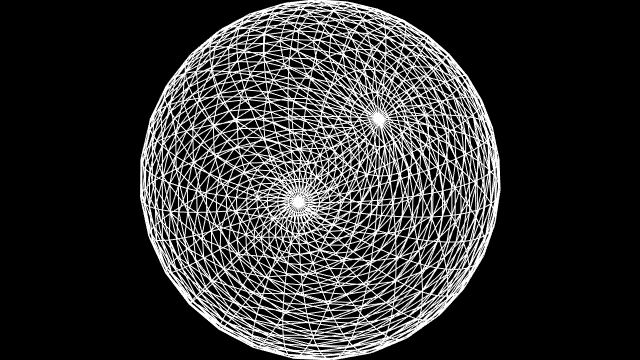
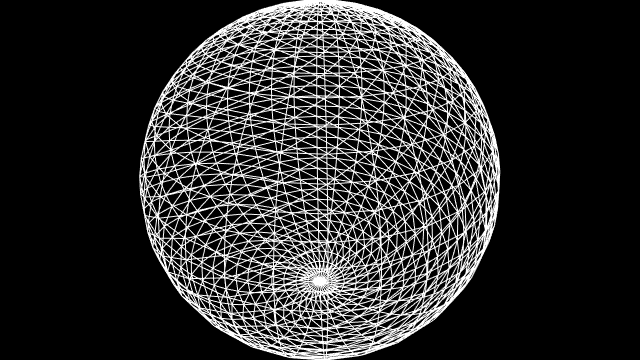
merg

diff --git a/src/ops/base/Ops.Gl.Meshes.SimpleWireframe/Ops.Gl.Meshes.SimpleWireframe.js b/src/ops/base/Ops.Gl.Meshes.SimpleWireframe/Ops.Gl.Meshes.SimpleWireframe.js
@@ -25,33 +25,51 @@ inGeom.onChange=function()
     }
 
     verts.length=0;
+    var i=0;
 
-    for(var i=0;i<geom.verticesIndices.length;i+=3)
+    if(geom.isIndexed())
     {
-        var index=geom.verticesIndices[i+0];
-        var index1=geom.verticesIndices[i+1];
-        var index2=geom.verticesIndices[i+2];
+        for(i=0;i<geom.verticesIndices.length;i+=3)
+        {
+            var index=geom.verticesIndices[i+0];
+            var index1=geom.verticesIndices[i+1];
+            var index2=geom.verticesIndices[i+2];
 
-        verts.push(geom.vertices[index*3+0],geom.vertices[index*3+1],geom.vertices[index*3+2]);
-        verts.push(geom.vertices[index1*3+0],geom.vertices[index1*3+1],geom.vertices[index1*3+2]);
-        verts.push(geom.vertices[index1*3+0],geom.vertices[index1*3+1],geom.vertices[index1*3+2]);
-        verts.push(geom.vertices[index2*3+0],geom.vertices[index2*3+1],geom.vertices[index2*3+2]);
-        verts.push(geom.vertices[index2*3+0],geom.vertices[index2*3+1],geom.vertices[index2*3+2]);
-        verts.push(geom.vertices[index*3+0],geom.vertices[index*3+1],geom.vertices[index*3+2]);
+            verts.push(geom.vertices[index*3+0],geom.vertices[index*3+1],geom.vertices[index*3+2]);
+            verts.push(geom.vertices[index1*3+0],geom.vertices[index1*3+1],geom.vertices[index1*3+2]);
+            verts.push(geom.vertices[index1*3+0],geom.vertices[index1*3+1],geom.vertices[index1*3+2]);
+            verts.push(geom.vertices[index2*3+0],geom.vertices[index2*3+1],geom.vertices[index2*3+2]);
+            verts.push(geom.vertices[index2*3+0],geom.vertices[index2*3+1],geom.vertices[index2*3+2]);
+            verts.push(geom.vertices[index*3+0],geom.vertices[index*3+1],geom.vertices[index*3+2]);
 
-        normals.push(geom.vertexNormals[index*3+0],geom.vertexNormals[index*3+1],geom.vertexNormals[index*3+2]);
-        normals.push(geom.vertexNormals[index1*3+0],geom.vertexNormals[index1*3+1],geom.vertexNormals[index1*3+2]);
-        normals.push(geom.vertexNormals[index1*3+0],geom.vertexNormals[index1*3+1],geom.vertexNormals[index1*3+2]);
-        normals.push(geom.vertexNormals[index2*3+0],geom.vertexNormals[index2*3+1],geom.vertexNormals[index2*3+2]);
-        normals.push(geom.vertexNormals[index2*3+0],geom.vertexNormals[index2*3+1],geom.vertexNormals[index2*3+2]);
-        normals.push(geom.vertexNormals[index*3+0],geom.vertexNormals[index*3+1],geom.vertexNormals[index*3+2]);
+            normals.push(geom.vertexNormals[index*3+0],geom.vertexNormals[index*3+1],geom.vertexNormals[index*3+2]);
+            normals.push(geom.vertexNormals[index1*3+0],geom.vertexNormals[index1*3+1],geom.vertexNormals[index1*3+2]);
+            normals.push(geom.vertexNormals[index1*3+0],geom.vertexNormals[index1*3+1],geom.vertexNormals[index1*3+2]);
+            normals.push(geom.vertexNormals[index2*3+0],geom.vertexNormals[index2*3+1],geom.vertexNormals[index2*3+2]);
+            normals.push(geom.vertexNormals[index2*3+0],geom.vertexNormals[index2*3+1],geom.vertexNormals[index2*3+2]);
+            normals.push(geom.vertexNormals[index*3+0],geom.vertexNormals[index*3+1],geom.vertexNormals[index*3+2]);
 
-        tc.push(geom.texCoords[index*2+0],geom.texCoords[index*2+1]);
-        tc.push(geom.texCoords[index1*2+0],geom.texCoords[index1*2+1]);
-        tc.push(geom.texCoords[index1*2+0],geom.texCoords[index1*2+1]);
-        tc.push(geom.texCoords[index2*2+0],geom.texCoords[index2*2+1]);
-        tc.push(geom.texCoords[index2*2+0],geom.texCoords[index2*2+1]);
-        tc.push(geom.texCoords[index*2+0],geom.texCoords[index*2+1]);
+            tc.push(geom.texCoords[index*2+0],geom.texCoords[index*2+1]);
+            tc.push(geom.texCoords[index1*2+0],geom.texCoords[index1*2+1]);
+            tc.push(geom.texCoords[index1*2+0],geom.texCoords[index1*2+1]);
+            tc.push(geom.texCoords[index2*2+0],geom.texCoords[index2*2+1]);
+            tc.push(geom.texCoords[index2*2+0],geom.texCoords[index2*2+1]);
+            tc.push(geom.texCoords[index*2+0],geom.texCoords[index*2+1]);
+        }
+    }
+    else
+    {
+        for(i=0;i<geom.vertices.length;i+=9)
+        {
+            verts.push(geom.vertices[i+0],geom.vertices[i+1],geom.vertices[i+2]);
+            verts.push(geom.vertices[i+3],geom.vertices[i+4],geom.vertices[i+5]);
+
+            verts.push(geom.vertices[i+3],geom.vertices[i+4],geom.vertices[i+5]);
+            verts.push(geom.vertices[i+6],geom.vertices[i+7],geom.vertices[i+8]);
+
+            verts.push(geom.vertices[i+6],geom.vertices[i+7],geom.vertices[i+8]);
+            verts.push(geom.vertices[i+0],geom.vertices[i+1],geom.vertices[i+2]);
+        }
     }
 
     geom=new CGL.Geometry("wireframelinegeom");

diff --git a/src/ops/base/Ops.Gl.Matrix.ArrayPathFollow/Ops.Gl.Matrix.ArrayPathFollow.js b/src/ops/base/Ops.Gl.Matrix.ArrayPathFollow/Ops.Gl.Matrix.ArrayPathFollow.js
@@ -35,14 +35,14 @@ var animLength=0;
 var timeStep=0.1;
 function setup()
 {
-    animX.clear();
-    animY.clear();
-    animZ.clear();
+    animX=new CABLES.Anim();
+    animY=new CABLES.Anim();
+    animZ=new CABLES.Anim();
 
-    animQX.clear();
-    animQY.clear();
-    animQZ.clear();
-    animQW.clear();
+    animQX=new CABLES.Anim();
+    animQY=new CABLES.Anim();
+    animQZ=new CABLES.Anim();
+    animQW=new CABLES.Anim();
 
     var i=0;
     var arr=arrayIn.get();

diff --git a/src/ops/base/Ops.Array.FillArrayRandomDuplicates/Ops.Array.FillArrayRandomDuplicates.js b/src/ops/base/Ops.Array.FillArrayRandomDuplicates/Ops.Array.FillArrayRandomDuplicates.js
@@ -32,7 +32,6 @@ inCalc.onTriggered=function()
 
     Math.randomSeed=inSeed.get();
 
-
     while(i<(num-1))
     {
         var ind=Math.floor(Math.seededRandom()*numOld);
@@ -43,5 +42,4 @@ inCalc.onTriggered=function()
 
     outArr.set(null);
     outArr.set(arr);
-
 };

diff --git a/src/ops/base/Ops.Gl.Geometry.GeometryUnIndex/Ops.Gl.Geometry.GeometryUnIndex.js b/src/ops/base/Ops.Gl.Geometry.GeometryUnIndex/Ops.Gl.Geometry.GeometryUnIndex.js
@@ -18,9 +18,6 @@ geometry.onChange=function()
         newGeom.unIndex();
         result.set(newGeom);
     }
-    else
-    {
-        result.set(null);
-    }
+    else result.set(null);
 
 };
